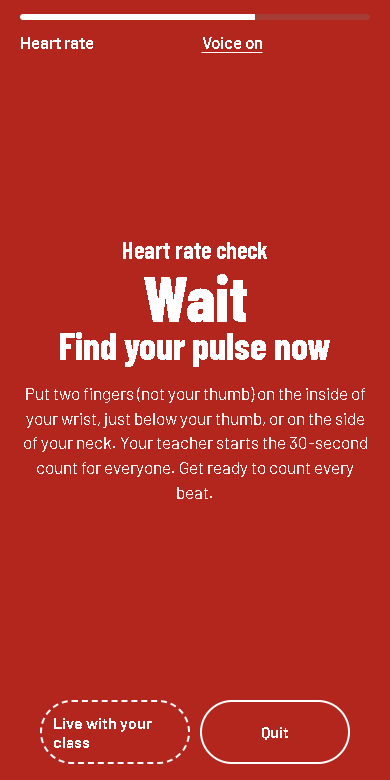
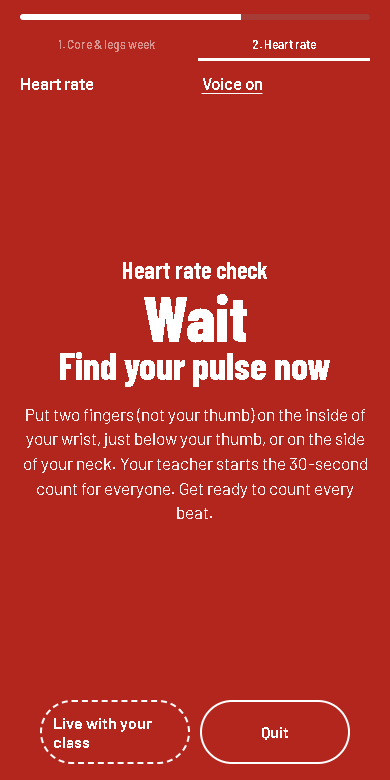
Timer: four clear stages, the day's challenge named, warm-up without slow squats
- A strip shows Warm-up / the challenge (with its name) / Heart rate / Cool-down
- First screen says "Warm-up first" (or names the challenge and first exercise when the warm-up is off)
- Warm-up is now 4 moves: slow squats removed
- Tutorial (new step Four stages), presentation and screenshots updated

diff --git a/index.html b/index.html
@@ -135,6 +135,9 @@ details.panel[open] summary{margin-bottom:12px}
 .player.rest{background:var(--card);color:var(--ink);border-top:12px solid var(--lc)}
 .p-bar{height:6px;border-radius:3px;background:rgba(127,127,127,.25);overflow:hidden}
 .p-bar i{display:block;height:100%;background:currentColor}
+.p-stages{display:flex;gap:6px;margin-top:10px;overflow:hidden}
+.p-stages span{flex:1 1 0;min-width:0;padding:5px 4px;font-size:.78rem;font-weight:600;text-align:center;border-bottom:3px solid transparent;opacity:.5;white-space:nowrap;overflow:hidden;text-overflow:ellipsis}
+.p-stages span[aria-current]{opacity:1;border-bottom-color:currentColor;flex:2.2 1 0}
 .p-top{display:flex;justify-content:space-between;font-weight:600;margin-top:10px}
 .p-main{flex:1;display:flex;flex-direction:column;justify-content:center;align-items:center;text-align:center;width:100%;max-width:560px;margin:0 auto;padding:12px 0}
 .p-phase{font-family:var(--display);font-weight:700;font-size:1.5rem}
@@ -1472,8 +1475,7 @@ async function publishPlan(){
 /* ===== Workout player ===== */
 // Warm-up before and cool-down after the workout: 30 seconds each, on by default, remembered on this device
 const WARMUP = [['March on the spot', 'Lift your knees gently and swing your arms.'], ['Arm circles', 'Big circles with straight arms, forwards then backwards.'],
-  ['Hip circles', 'Hands on hips, draw big slow circles with your hips.'], ['Leg swings', 'Hold a wall and swing one leg forward and back. Switch legs at halfway.'],
-  ['Slow squats', 'Slow bodyweight squats, chest up, knees over your toes.']];
+  ['Hip circles', 'Hands on hips, draw big slow circles with your hips.'], ['Leg swings', 'Hold a wall and swing one leg forward and back. Switch legs at halfway.']];
 const COOLDOWN = [['Standing quad stretch', 'Hold one foot behind you, knees together. Switch legs at halfway.'], ['Hamstring stretch', 'One heel forward, toes up, lean forward with a straight back. Switch legs at halfway.'],
   ['Chest and shoulder stretch', 'Pull one arm across your chest. Switch arms at halfway.'], ['Deep breathing', 'Stand tall. Breathe in slowly through your nose and out through your mouth.']];
 const wcPref = () => ({warm:1, cool:1, ...ls.get('bwb-wc', {})});
@@ -1510,7 +1512,10 @@ async function startWorkout(opts){
   // heart rate: 10 seconds to find the pulse, 30 seconds counting, 20 seconds to write the beats, always just before the cool-down
   phases.push({type:'pulseprep', dur:10, ex:0, round:0}, {type:'pulse', dur:30, ex:0, round:0}, {type:'pulselog', dur:20, ex:0, round:0});
   if(pref.cool) COOLDOWN.forEach(([name, cue], i)=>phases.push({type:'cool', dur:30, ex:0, round:0, idx:i, total:COOLDOWN.length, item:{name, cue, half:/halfway/i.test(cue)}}));
-  P = {ex, phases, i:-1, started:Date.now(), paused:false, planId:S.planId, noSave:!!opts.noSave, onDone:opts.onDone, liveId:opts.liveId || null};
+  // the stages: Warm-up, the challenge of the day (its name), Heart rate, Cool-down
+  const title = opts.title || (S.planId && S.extras?.plan?.id===S.planId ? S.extras.plan.title : '') || 'Bodyweight challenge';
+  const stages = [pref.warm ? 'Warm-up' : null, title, 'Heart rate', pref.cool ? 'Cool-down' : null].filter(Boolean);
+  P = {title, stages, firstWork:phases.findIndex(x=>x.type==='work'), warmOn:!!pref.warm, ex, phases, i:-1, started:Date.now(), paused:false, planId:S.planId, noSave:!!opts.noSave, onDone:opts.onDone, liveId:opts.liveId || null};
   if(opts.startAt){   // live: every phase ends at the same moment for everyone
     let t = opts.startAt; const prep = phases.findIndex(x=>x.type==='pulseprep');
     // the heart-rate count waits for the teacher: its time is set when the teacher presses Start
@@ -1540,8 +1545,13 @@ function startPhase(i){
   const e = P.ex[ph.ex], nw = P.phases.slice(i+1).find(p=>p.type==='work'), ne = nw ? P.ex[nw.ex] : null;
   if(ph.type==='pulseprep'){ beep(880,.3); beep(880,.3,.4); try{ navigator.vibrate?.([400,200,400]); }catch(e){} }
   const stopCount = ph.type==='pulselog' ? 'Stop counting. Write your number now. ' : '';
-  say(stopCount + (ph.type==='pulseprep' ? 'Stop. Heart rate check. Put two fingers on your wrist or your neck and find your pulse.' : ph.type==='pulse' ? 'Start counting your heart beats now.' : ph.type==='pulselog' ? '' : ph.item ? `${ph.type==='warm' ? 'Warm-up' : 'Cool-down'}. ${ph.item.name}` : ph.type==='ready' ? `Get ready. First: ${e.name}` : ph.type==='work' ? (e.unit==='sec' ? `Hold! ${e.name}` : `Go! ${e.name}`) : ph.final ? 'Write your last score now.' : ne ? `Rest. Next: ${ne.name}` : 'Rest'));
+  const stageIntro = i === P.firstWork ? `Challenge. ${P.title}. ` : '';
+  say(stopCount + stageIntro + (ph.type==='pulseprep' ? 'Stop. Heart rate check. Put two fingers on your wrist or your neck and find your pulse.' : ph.type==='pulse' ? 'Start counting your heart beats now.' : ph.type==='pulselog' ? '' : ph.item ? `${ph.type==='warm' ? 'Warm-up' : 'Cool-down'}. ${ph.item.name}` : ph.type==='ready' ? (P.warmOn ? 'Get ready. Warm-up first.' : `Get ready. ${P.title}. First: ${e.name}`) : ph.type==='work' ? (e.unit==='sec' ? `Hold! ${e.name}` : `Go! ${e.name}`) : ph.final ? 'Write your last score now.' : ne ? `Rest. Next: ${ne.name}` : 'Rest'));
 }
+const stageOf = ph => { const names = P.stages, w = P.warmOn ? 1 : 0;
+  return ph.type==='warm' || (ph.type==='ready' && P.warmOn) ? 0 : ph.type==='ready' || ph.type==='work' || ph.type==='rest' ? w : ph.type.startsWith('pulse') ? w + 1 : w + 2; };
+const stagesHTML = ph => { const cur = stageOf(ph);
+  return `<div class="p-stages" aria-label="Stages of the workout">${P.stages.map((n, k)=>`<span${k===cur ? ' aria-current="step"' : ''}>${k+1}. ${esc(n)}</span>`).join('')}</div>`; };
 const canSkip = () => !!S.student?.is_teacher && !P.sched;   // only TEACHER can skip: warm-up, exercises, rests, heart rate, cool-down
 function renderPhase(){
   const ph=P.phases[P.i], e=P.ex[ph.ex], el=$('#player'), N=P.ex.length, R=S.settings.rounds;
@@ -1553,6 +1563,13 @@ function renderPhase(){
       <div class="p-log"><p><b>${esc(e.name)}</b>: ${e.unit==='sec'?'seconds held':'reps done'}</p>
         <div class="stepper"><button type="button" data-d="-1" aria-label="One less">−</button><input id="sv" type="number" inputmode="numeric" min="0" value="${e.results[ph.round]}" aria-label="Your score"><button type="button" data-d="1" aria-label="One more">+</button></div></div>
       ${ne?`<div class="p-next"><span class="muted">Next</span><b>${esc(ne.name)}</b><span class="lvtag" style="${lc(ne.level)}">Level ${ne.level}</span><button type="button" class="link small" id="howp">How to do it</button></div>`:''}`;
+  } else if(ph.type==='ready'){
+    el.className='player'; el.style.cssText = lc(P.warmOn ? 1 : e.level);
+    main = P.warmOn
+      ? `<div class="p-phase" id="pph">Get ready</div><div class="p-time" id="pt">${ph.dur}</div>
+         <div class="p-name">Warm-up first</div><p class="p-cue">${WARMUP.length} easy moves, 30 seconds each, to warm up your body. Then your challenge: <b>${esc(P.title)}</b>.</p>`
+      : `<div class="p-phase" id="pph">Get ready</div><div class="p-time" id="pt">${ph.dur}</div>
+         <div class="p-name">${esc(P.title)}</div><p class="p-cue">First exercise: <b>${esc(e.name)}</b>, Level ${e.level}.</p>`;
   } else if(ph.type==='pulselog'){
     el.className='player pulse'; el.style.cssText = '';
     main = `<div class="p-phase" id="pph">Write your beats</div><div class="p-time" id="pt">${ph.dur}</div>
@@ -1587,7 +1604,8 @@ function renderPhase(){
       <button type="button" class="link" id="howp">How to do it</button>`;
   }
   el.innerHTML = `<div class="p-bar"><i style="width:${Math.round(P.i/P.phases.length*100)}%"></i></div>
-    <div class="p-top">${ph.type.startsWith('pulse') ? '<span>Heart rate</span>' : ph.item ? `<span>${ph.type==='warm' ? 'Warm-up' : 'Cool-down'} ${ph.idx+1} of ${ph.total}</span>` : `<span>Round ${ph.round+1} of ${R}</span>`}<button type="button" class="link small" id="vc" style="color:inherit">${voiceOn() ? 'Voice on' : 'Voice off'}</button>${ph.item || ph.type.startsWith('pulse') ? '<span></span>' : `<span>Exercise ${ph.ex+1} of ${N}</span>`}</div>
+    ${stagesHTML(ph)}
+    <div class="p-top">${ph.type.startsWith('pulse') ? '<span>Heart rate</span>' : ph.type==='ready' && P.warmOn ? '<span>Get ready</span>' : ph.item ? `<span>${ph.type==='warm' ? 'Warm-up' : 'Cool-down'} ${ph.idx+1} of ${ph.total}</span>` : `<span>Round ${ph.round+1} of ${R}</span>`}<button type="button" class="link small" id="vc" style="color:inherit">${voiceOn() ? 'Voice on' : 'Voice off'}</button>${ph.item || ph.type.startsWith('pulse') || (ph.type==='ready' && P.warmOn) ? '<span></span>' : `<span>Exercise ${ph.ex+1} of ${N}</span>`}</div>
     <div class="p-main">${main}</div>
     <div class="p-ctrl">${P.sched ? '<span class="pbtn" style="border-style:dashed">Live with your class</span>' : `<button class="pbtn" id="pp">${P.paused?'Resume':'Pause'}</button>`}${canSkip() ? `<button class="pbtn" id="skip">${ph.type==='rest' ? 'Skip rest' : ph.type==='work' ? 'Skip exercise' : ph.type.startsWith('pulse') ? 'Skip heart rate' : ph.item ? 'Skip' : 'Start now'}</button>` : ''}<button class="pbtn" id="quit">Quit</button></div>`;
   if($('#pp')) $('#pp').onclick = togglePause;
@@ -1806,6 +1824,7 @@ const TUTORIAL = [
   ['Forgot your PIN?', 'On the PIN screen, tap <b>I forgot my PIN: ask my teacher</b>. Your request goes to your teacher, who accepts it. Then choose your name again and create a new PIN. Your workouts and points are kept.', 'forgot'],
   ['Your page', 'The first line shows your week, for example "2 of 3 workouts". Your teacher\'s challenge is below it, with the date to do it by: tap <b>See the workout</b>. When there is no challenge, the big button starts a quick workout. Everything else is under <b>More</b>.', 'home'],
   ['Check the workout', 'The exercises run in this order. Where you see four levels, choose the one that challenges you. Tap "How to" if you are not sure how an exercise is done. Then press Start. The timer begins with a short warm-up.', 'programme'],
+  ['Four stages', 'The strip at the top of the timer shows where you are: <b>1. Warm-up</b>, <b>2. the challenge of the day</b> (its name is shown), <b>3. Heart rate</b> and <b>4. Cool-down</b>. The first screen tells you what comes first.', 'ready'],
   ['Follow the timer', 'Do the exercise until the timer ends and count your reps (or hold). You can pause, but nothing can be skipped: every exercise counts for your points.', 'work'],
   ['Log your score in the rest', 'During the rest, type how many reps you did, or how many seconds you held. Use the + and − buttons or type the number.', 'rest'],
   ['Write your last score', 'The last exercise has no rest, so you get <b>20 seconds</b> right after it to write its score. Do it straight away while you remember.', 'last'],
@@ -2963,7 +2982,7 @@ function liveTeacherRun(st){
   S.settings = {work:p.work_sec, rest:p.rest_sec, rounds:p.rounds};
   S.sel = p.exercises.filter(x=>FAM[x.fid]).map(x=>({fam:x.fid, lvl:x.lvl}));
   S.planId = p.id;
-  startWorkout({wc:{warm:st.warm ? 1 : 0, cool:st.cool ? 1 : 0}, startAt:liveStartLocal(st), noSave:true, liveId:id, leader:api, getState:() => api.state(id),
+  startWorkout({wc:{warm:st.warm ? 1 : 0, cool:st.cool ? 1 : 0}, startAt:liveStartLocal(st), noSave:true, liveId:id, title:p.title, leader:api, getState:() => api.state(id),
     pulseAt:st.pulse_at ? liveLocal(st, st.pulse_at) : null,
     onDone: async () => { try{ await api.end(id); }catch(e){} LIVE = null; S.planId = null; toast('Live session finished. Students are saving their scores.'); showLiveBoard(id, back); }});
 }
@@ -3009,7 +3028,7 @@ function liveJoin(st, leader){
   S.settings = {work:p.work_sec, rest:p.rest_sec, rounds:p.rounds};
   S.sel = p.exercises.filter(x=>FAM[x.fid]).map(x=>{ const f = S.A?.fams[x.fid]; return {fam:x.fid, lvl:x.free && f ? f.level : x.lvl}; });
   S.planId = st.my_plan_id || p.id;   // a student from another form gets it counted for their own form's challenge
-  startWorkout({wc:{warm:st.warm ? 1 : 0, cool:st.cool ? 1 : 0}, startAt:liveStartLocal(st), liveId:st.id, leader:leader || null,
+  startWorkout({wc:{warm:st.warm ? 1 : 0, cool:st.cool ? 1 : 0}, startAt:liveStartLocal(st), liveId:st.id, title:p.title, leader:leader || null,
     getState:() => Store.liveCheck(S.token), pulseAt:st.pulse_at ? liveLocal(st, st.pulse_at) : null});
 }
 

diff --git a/presentation.html b/presentation.html
@@ -82,9 +82,9 @@ footer{border-top:1px solid var(--line);padding-top:24px;color:var(--muted);font
   </header>
 
   <section aria-labelledby="st">
-    <h2 id="st">For students: thirteen steps, one routine</h2>
+    <h2 id="st">For students: fourteen steps, one routine</h2>
     <p class="lead">From scanning the class code to the leaderboard. The same routine works at home, in a lesson, or live with the whole form.</p>
-    <ol class="steps"><li class=""><img src="tutorial/join.png" alt="Join the class" loading="lazy" class="phone"><h3>Join the class</h3><p>Students scan the QR code on the class sheet, or type their form and class code.</p></li><li class=""><img src="tutorial/name.png" alt="Pick a name, make a PIN" loading="lazy" class="phone"><h3>Pick a name, make a PIN</h3><p>They choose their name and create a 4-digit PIN. No email, no account to set up.</p></li><li class=""><img src="tutorial/home.png" alt="One clear page" loading="lazy" class="phone"><h3>One clear page</h3><p>This week's progress, then the teacher's challenge with its due date. Everything else waits under More.</p></li><li class=""><img src="tutorial/programme.png" alt="See the workout" loading="lazy" class="phone"><h3>See the workout</h3><p>The exercises in order. Where the teacher allows it, each student picks the level that challenges them.</p></li><li class=""><img src="tutorial/work.png" alt="Follow the timer" loading="lazy" class="phone"><h3>Follow the timer</h3><p>Full-screen timer with beeps and a voice coach. Exercises cannot be skipped.</p></li><li class=""><img src="tutorial/rest.png" alt="Log in the rest" loading="lazy" class="phone"><h3>Log in the rest</h3><p>During each rest, students type their reps or seconds held.</p></li><li class=""><img src="tutorial/last.png" alt="Last score straight away" loading="lazy" class="phone"><h3>Last score straight away</h3><p>The last exercise has no rest: 20 seconds to write its score while it is fresh.</p></li><li class="pulse"><img src="tutorial/pulse.png" alt="Heart-rate check" loading="lazy" class="phone"><h3>Heart-rate check</h3><p>After the last exercise the screen turns red: find the pulse and count for 30 seconds.</p></li><li class=""><img src="tutorial/pulse-log.png" alt="Write the beats" loading="lazy" class="phone"><h3>Write the beats</h3><p>Right after the count, 20 seconds to type the beats. Then the cool-down.</p></li><li class=""><img src="tutorial/pulse-live.png" alt="Count together when live" loading="lazy" class="phone"><h3>Count together when live</h3><p>In a live challenge everyone waits on the red screen, and the teacher starts the 30-second count for the whole class at once.</p></li><li class=""><img src="tutorial/summary.png" alt="Points, bpm and effort" loading="lazy" class="phone"><h3>Points, bpm and effort</h3><p>The beats are doubled into bpm. Points reward reps, holds and harder levels.</p></li><li class=""><img src="tutorial/live.png" alt="Live with the class" loading="lazy" class="phone"><h3>Live with the class</h3><p>When the teacher starts a live challenge, every student taps "I'm ready" and starts at the same second.</p></li><li class=""><img src="tutorial/board.png" alt="Leaderboards and badges" loading="lazy" class="phone"><h3>Leaderboards and badges</h3><p>Class leaderboards, a form cup, ranks from Rookie to Legend, badges and a weekly streak.</p></li></ol>
+    <ol class="steps"><li class=""><img src="tutorial/join.png" alt="Join the class" loading="lazy" class="phone"><h3>Join the class</h3><p>Students scan the QR code on the class sheet, or type their form and class code.</p></li><li class=""><img src="tutorial/name.png" alt="Pick a name, make a PIN" loading="lazy" class="phone"><h3>Pick a name, make a PIN</h3><p>They choose their name and create a 4-digit PIN. No email, no account to set up.</p></li><li class=""><img src="tutorial/home.png" alt="One clear page" loading="lazy" class="phone"><h3>One clear page</h3><p>This week's progress, then the teacher's challenge with its due date. Everything else waits under More.</p></li><li class=""><img src="tutorial/programme.png" alt="See the workout" loading="lazy" class="phone"><h3>See the workout</h3><p>The exercises in order. Where the teacher allows it, each student picks the level that challenges them.</p></li><li class=""><img src="tutorial/ready.png" alt="Four clear stages" loading="lazy" class="phone"><h3>Four clear stages</h3><p>Warm-up, the challenge of the day, heart rate, cool-down: a strip at the top always shows where you are.</p></li><li class=""><img src="tutorial/work.png" alt="Follow the timer" loading="lazy" class="phone"><h3>Follow the timer</h3><p>Full-screen timer with beeps and a voice coach. Exercises cannot be skipped.</p></li><li class=""><img src="tutorial/rest.png" alt="Log in the rest" loading="lazy" class="phone"><h3>Log in the rest</h3><p>During each rest, students type their reps or seconds held.</p></li><li class=""><img src="tutorial/last.png" alt="Last score straight away" loading="lazy" class="phone"><h3>Last score straight away</h3><p>The last exercise has no rest: 20 seconds to write its score while it is fresh.</p></li><li class="pulse"><img src="tutorial/pulse.png" alt="Heart-rate check" loading="lazy" class="phone"><h3>Heart-rate check</h3><p>After the last exercise the screen turns red: find the pulse and count for 30 seconds.</p></li><li class=""><img src="tutorial/pulse-log.png" alt="Write the beats" loading="lazy" class="phone"><h3>Write the beats</h3><p>Right after the count, 20 seconds to type the beats. Then the cool-down.</p></li><li class=""><img src="tutorial/pulse-live.png" alt="Count together when live" loading="lazy" class="phone"><h3>Count together when live</h3><p>In a live challenge everyone waits on the red screen, and the teacher starts the 30-second count for the whole class at once.</p></li><li class=""><img src="tutorial/summary.png" alt="Points, bpm and effort" loading="lazy" class="phone"><h3>Points, bpm and effort</h3><p>The beats are doubled into bpm. Points reward reps, holds and harder levels.</p></li><li class=""><img src="tutorial/live.png" alt="Live with the class" loading="lazy" class="phone"><h3>Live with the class</h3><p>When the teacher starts a live challenge, every student taps "I'm ready" and starts at the same second.</p></li><li class=""><img src="tutorial/board.png" alt="Leaderboards and badges" loading="lazy" class="phone"><h3>Leaderboards and badges</h3><p>Class leaderboards, a form cup, ranks from Rookie to Legend, badges and a weekly streak.</p></li></ol>
   </section>
 
   <section aria-labelledby="hr">

diff --git a/README.md b/README.md
@@ -15,7 +15,7 @@ The whole app is one file, [index.html](index.html). Data is stored in Supabase.
 - **Rank titles:** Rookie, Athlete (1,000 points), Pro (4,000) and Legend (10,000), with a progress bar to the next rank.
 - **Badges:** 12 to collect (first workout, streaks, level up, all-rounder, early bird, record breaker...). New badges, level-ups, ranks and personal bests are celebrated with confetti.
 - **Weekly recap** of last week, **star of the week** chosen by the teacher, **Surprise me** and **Quick 8-minute** workouts at the student's own levels, and a **voice coach** in the timer (can be turned off).
-- **Tutorial:** 15 steps with screenshots (images in [tutorial/](tutorial/)), from joining the class to the heart-rate check, live challenges and points. It opens from the first screen and from the student's More menu.
+- **Tutorial:** 16 steps with screenshots (images in [tutorial/](tutorial/)), from joining the class to the heart-rate check, live challenges and points. It opens from the first screen and from the student's More menu.
 - **Timer details:** full-screen with beeps, a "switch sides" signal on one-sided exercises, and score logging during rest. The screen stays awake.
 - **Progress:** a weekly goal set by the teacher, a streak of weeks with the goal reached, a chart of average level over time, personal bests, and a table of their current level for each movement.
 - **Challenge:** a movement is marked **Ready for Level N** when:
@@ -24,7 +24,7 @@ The whole app is one file, [index.html](index.html). Data is stored in Supabase.
 
   "Repeat with level-ups" rebuilds the last workout with those movements moved up one level.
 - **Two tabs:** **Today** (this week, the challenge, one main button, and a **More** menu with the other ways to train) and **Me and my class** (rank, levels, badges, fitness checks, leaderboards, form cup, class challenges). The last tab is remembered.
-- **Warm-up and cool-down:** the timer always starts with 5 warm-up moves and ends with 4 stretches, 30 seconds each. Students cannot skip them; only TEACHER can.
+- **Clear stages in the timer:** a strip at the top shows the four stages: **1. Warm-up**, **2. the challenge of the day** (shown with its name, for example "Core & legs week"), **3. Heart rate** and **4. Cool-down**, with the current one highlighted. The first screen says "Warm-up first" (or names the challenge and its first exercise when the warm-up is off). The warm-up is 4 moves and the cool-down 4 stretches, 30 seconds each. Students cannot skip them; only TEACHER can.
 - **Install as an app:** add the app to the home screen (iPhone, Android or computer) so it opens full screen. Once opened online, it also starts without a connection. Workouts done offline upload later.
 - **Offline:** if the connection drops, the workout is saved on the device and uploads later with its original date.
 - **Stay logged in:** students can stay logged in on their own device for 30 days.
